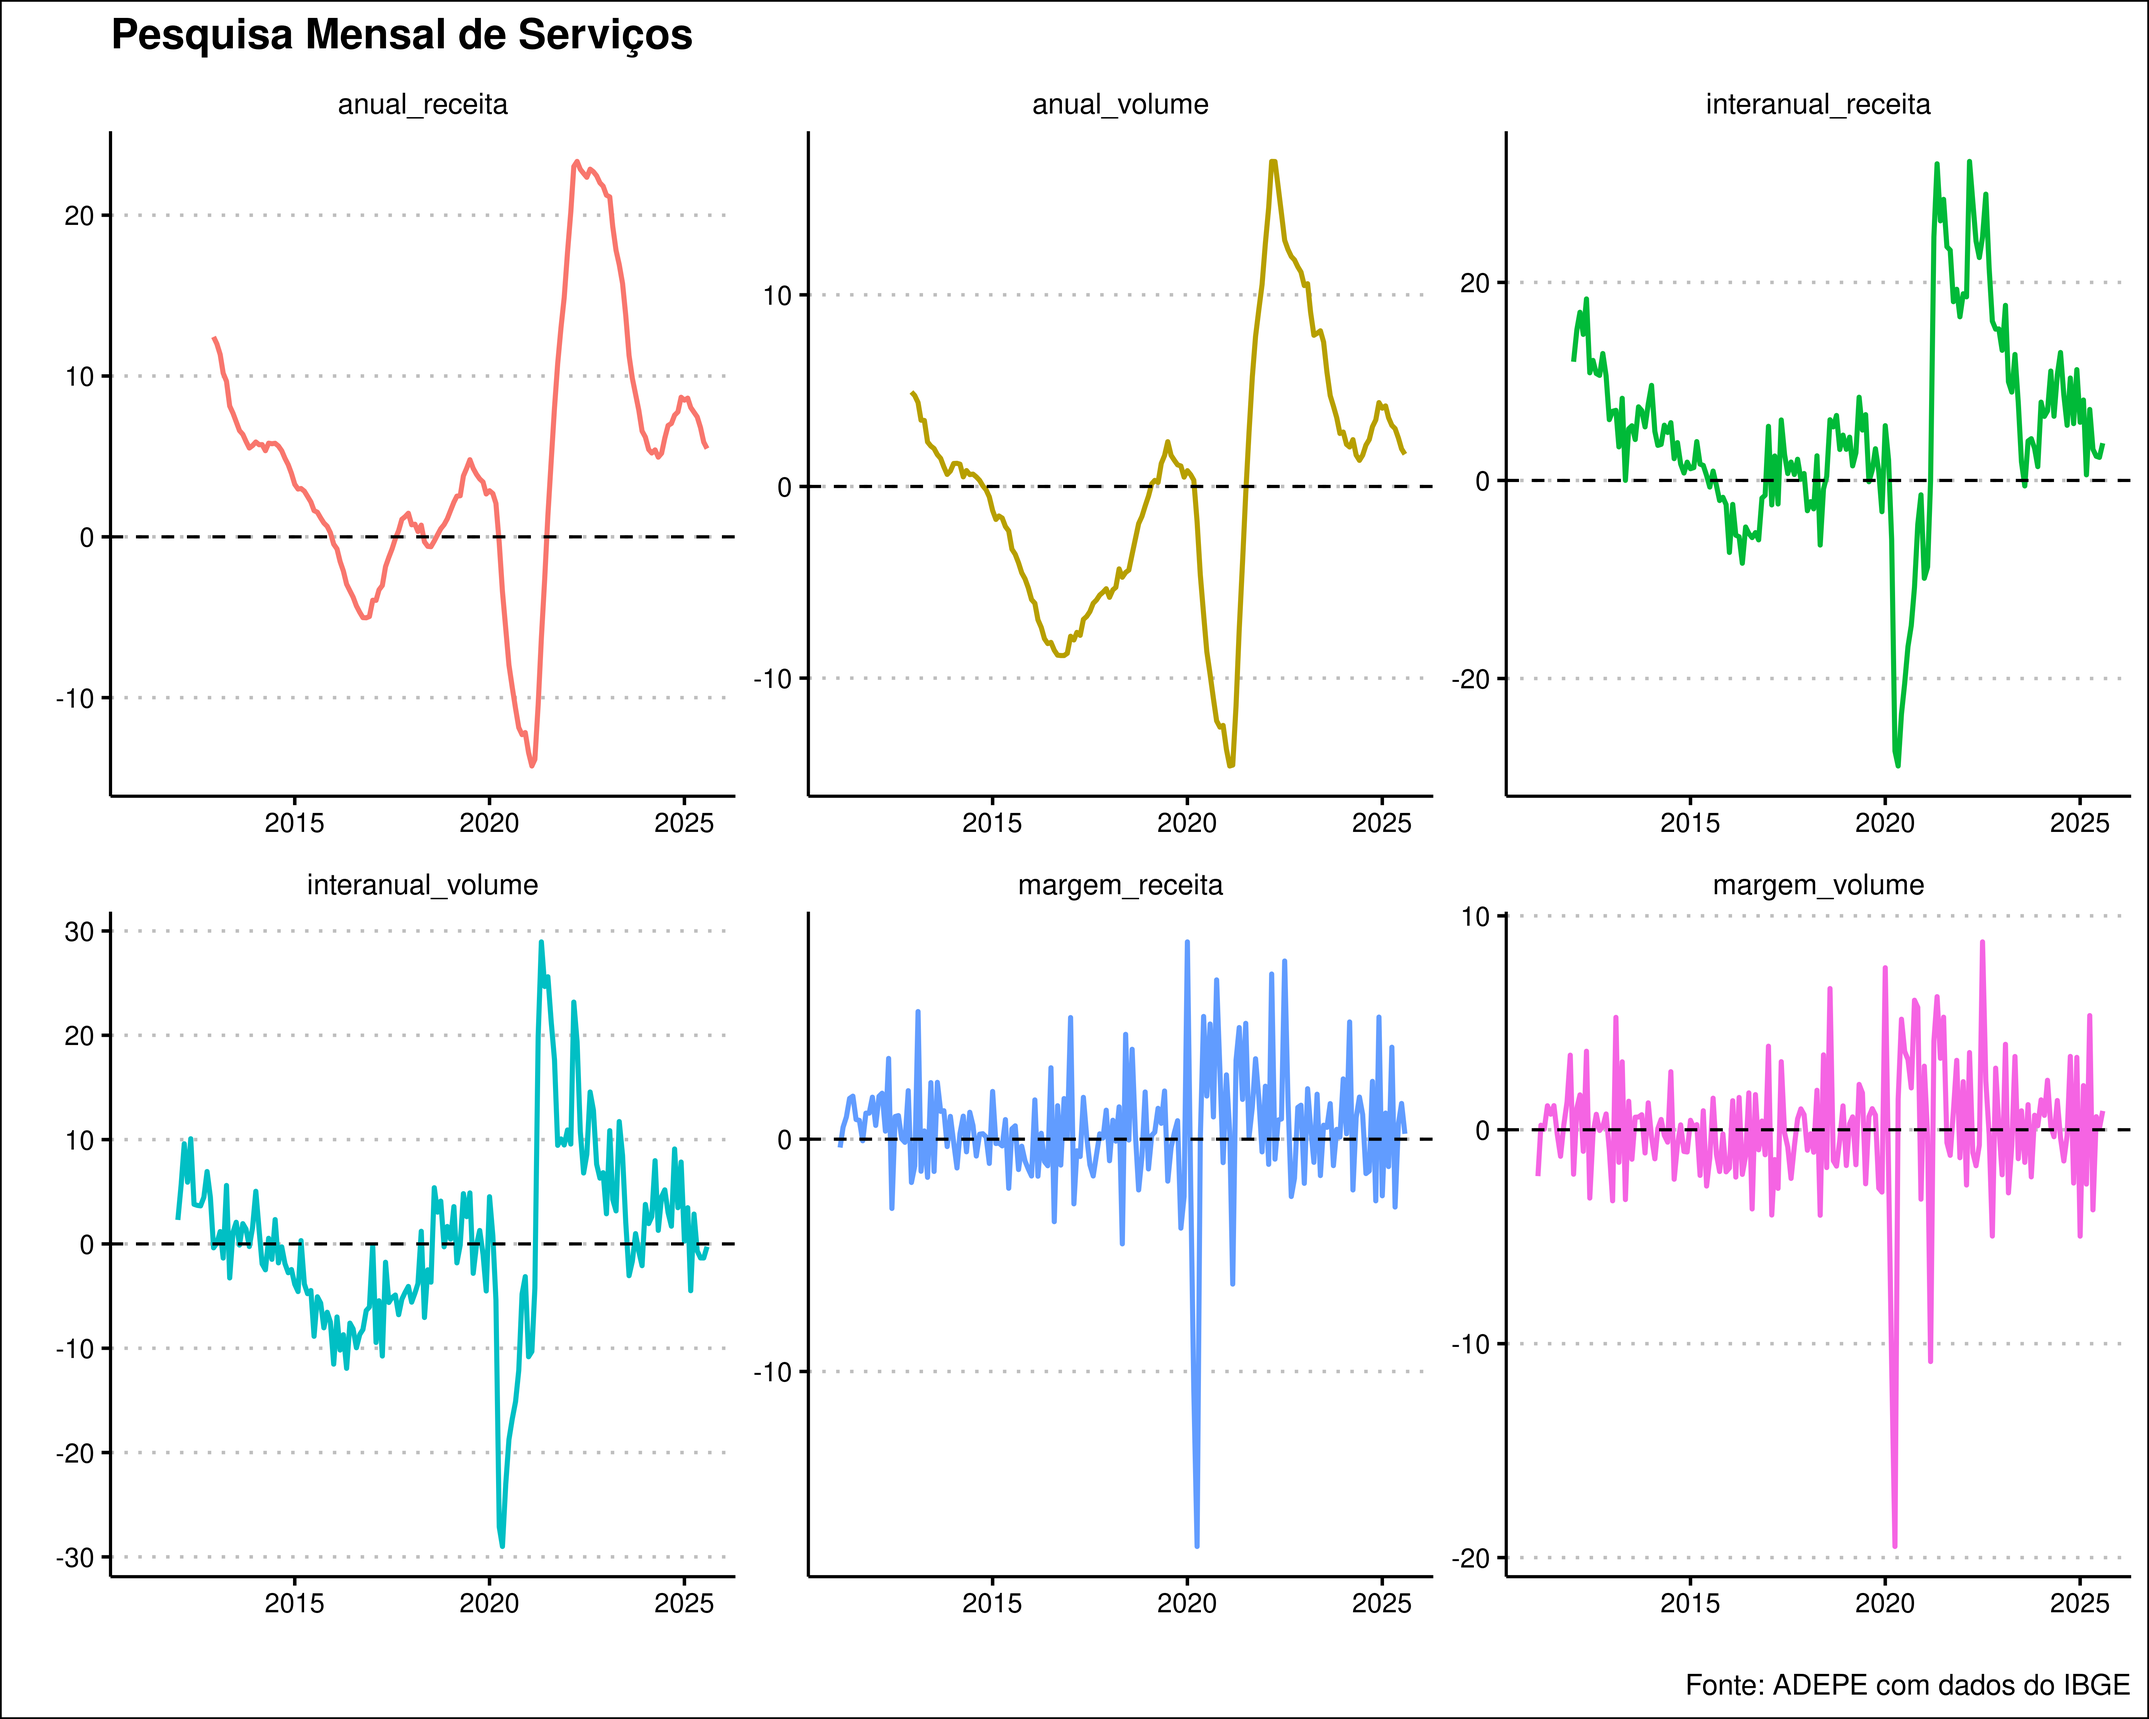
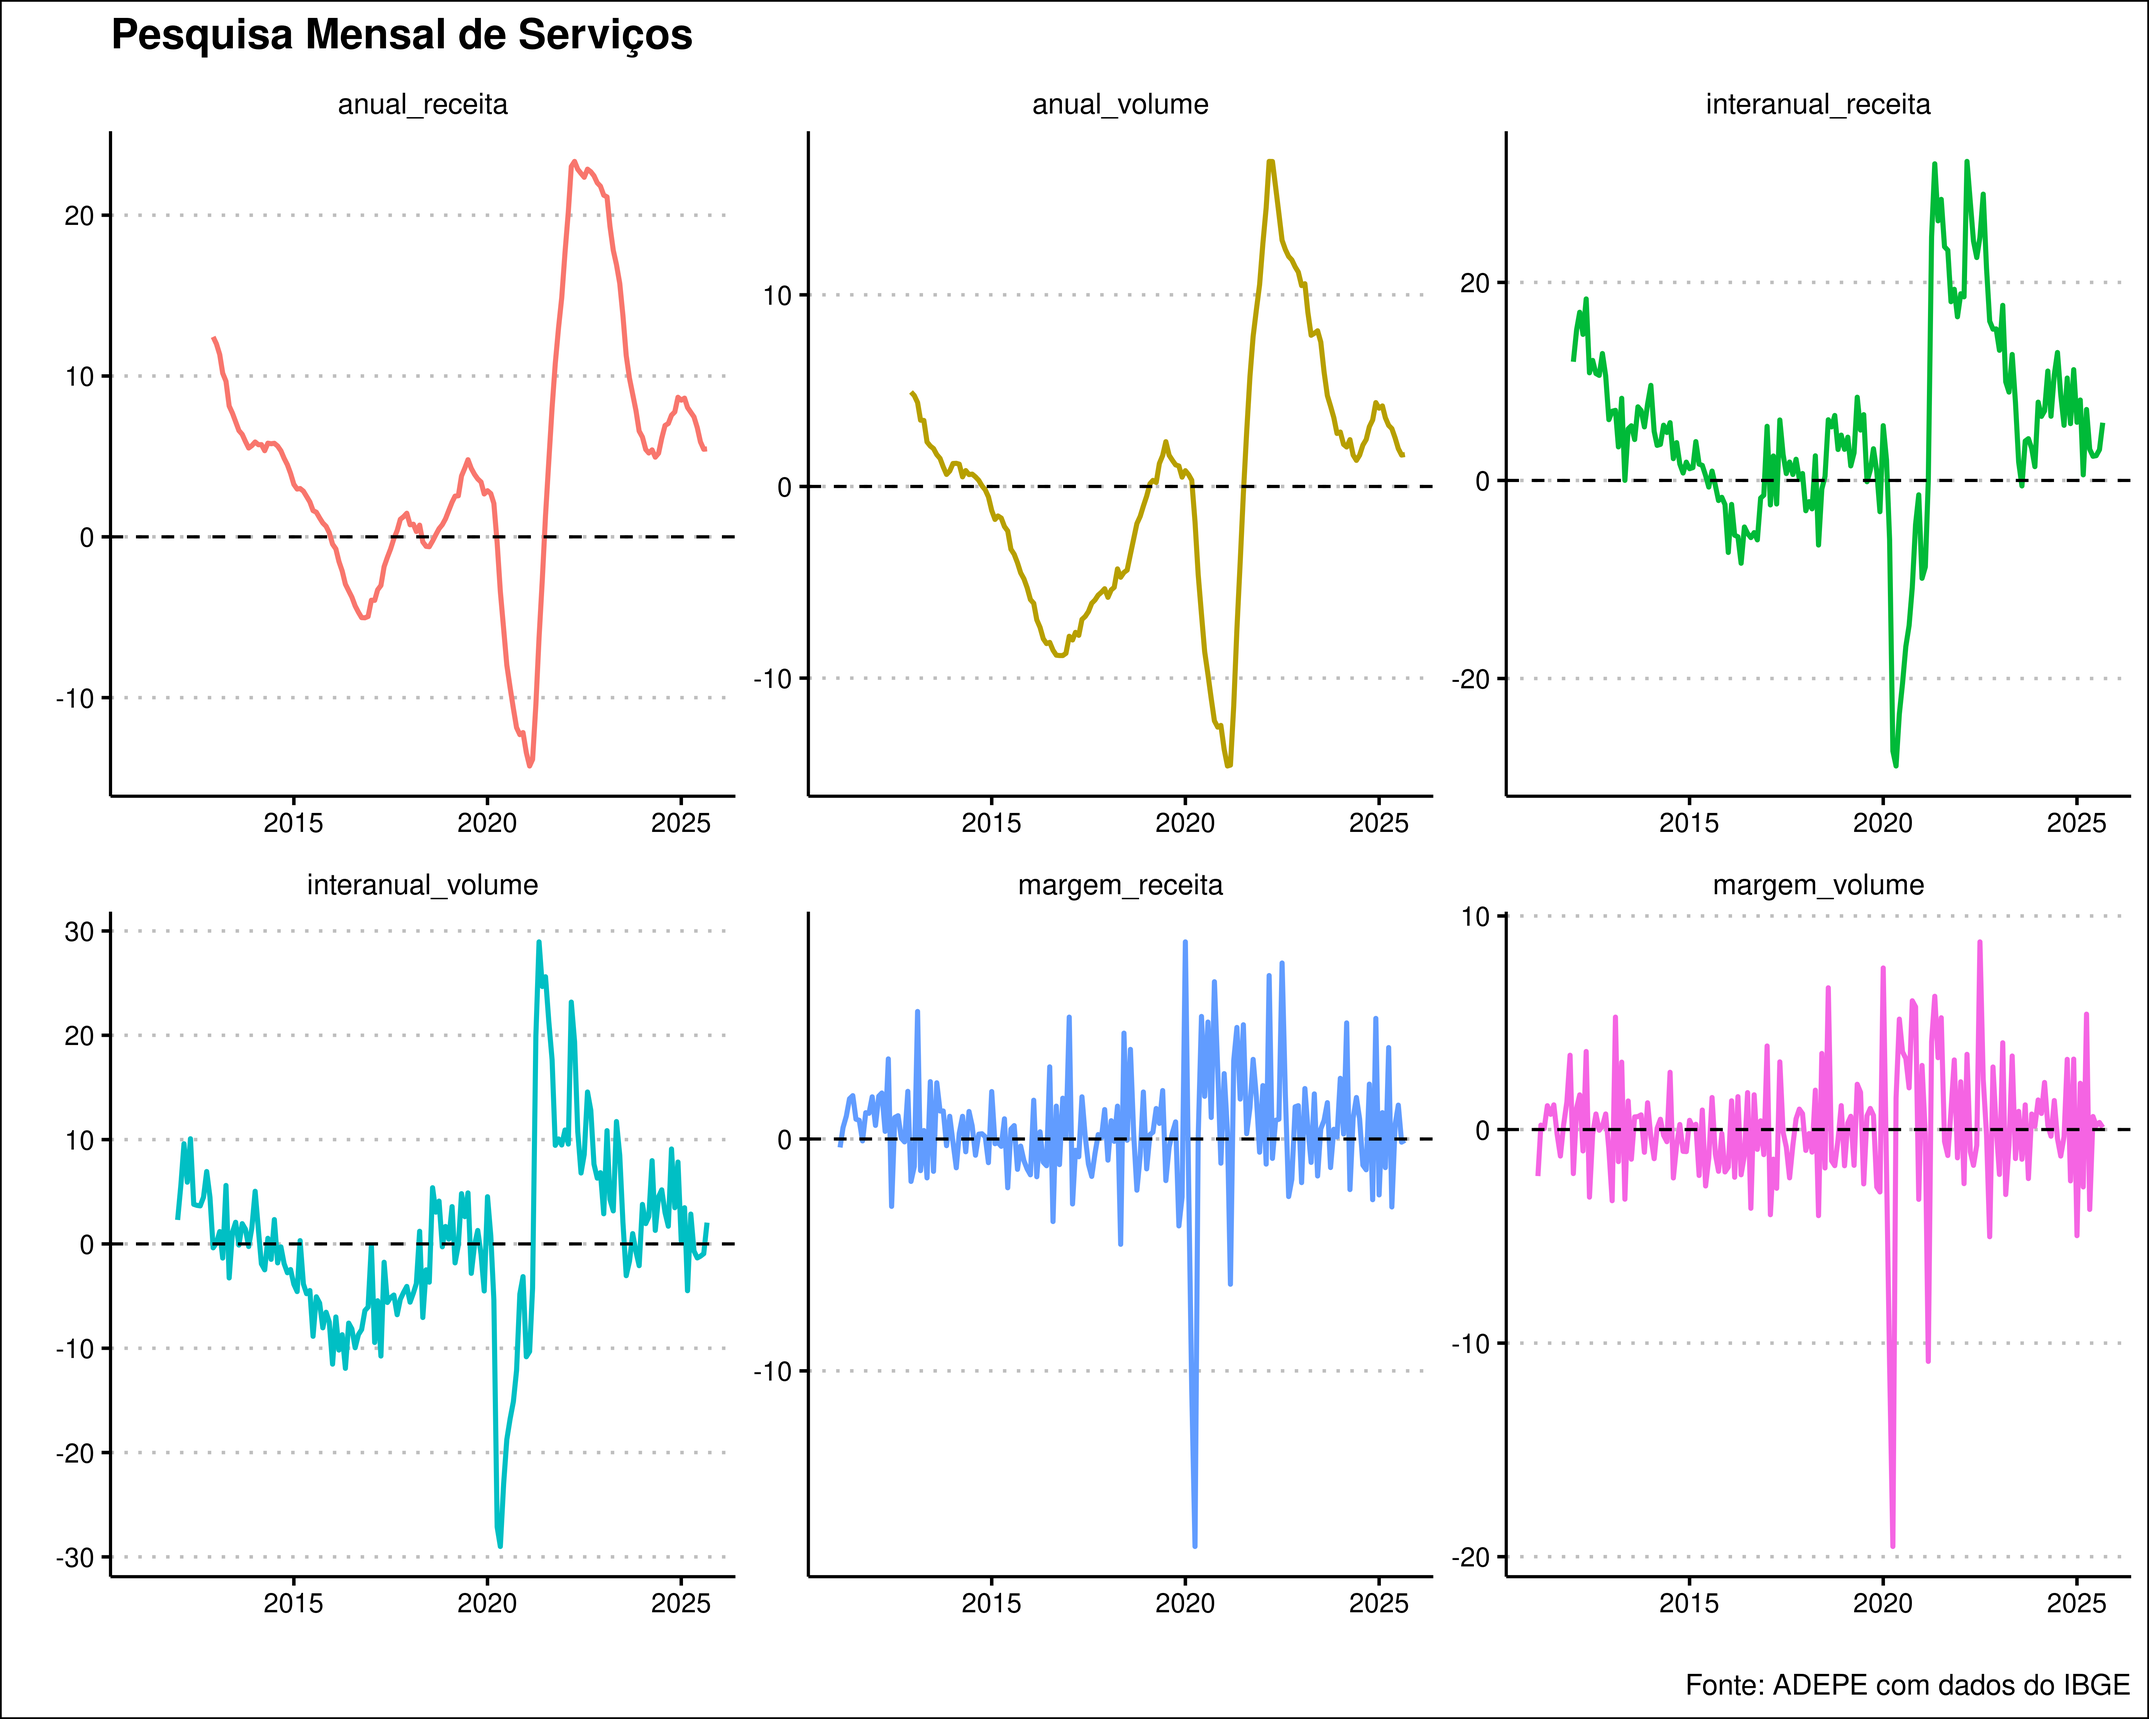
Atualização de relatório automatizada

diff --git a/pms/pms.html b/pms/pms.html
@@ -381,40 +381,40 @@ Núcleo de Dados <br><span style="font-size: 70%;">ADEPE<br><a href="https://git
 </thead>
 <tbody>
 <tr class="odd">
-<td style="text-align: left;">2025-03-01</td>
-<td style="text-align: right;">0.78</td>
-<td style="text-align: right;">7.43</td>
-<td style="text-align: right;">7.73</td>
-</tr>
-<tr class="even">
 <td style="text-align: left;">2025-04-01</td>
 <td style="text-align: right;">0.11</td>
-<td style="text-align: right;">7.15</td>
+<td style="text-align: right;">7.16</td>
 <td style="text-align: right;">7.55</td>
 </tr>
-<tr class="odd">
-<td style="text-align: left;">2025-05-01</td>
-<td style="text-align: right;">0.38</td>
-<td style="text-align: right;">9.33</td>
-<td style="text-align: right;">7.89</td>
-</tr>
 <tr class="even">
+<td style="text-align: left;">2025-05-01</td>
+<td style="text-align: right;">0.37</td>
+<td style="text-align: right;">9.34</td>
+<td style="text-align: right;">7.90</td>
+</tr>
+<tr class="odd">
 <td style="text-align: left;">2025-06-01</td>
-<td style="text-align: right;">0.53</td>
-<td style="text-align: right;">7.77</td>
+<td style="text-align: right;">0.49</td>
+<td style="text-align: right;">7.70</td>
 <td style="text-align: right;">7.96</td>
 </tr>
-<tr class="odd">
+<tr class="even">
 <td style="text-align: left;">2025-07-01</td>
 <td style="text-align: right;">0.55</td>
-<td style="text-align: right;">7.09</td>
+<td style="text-align: right;">7.02</td>
 <td style="text-align: right;">7.68</td>
 </tr>
-<tr class="even">
+<tr class="odd">
 <td style="text-align: left;">2025-08-01</td>
-<td style="text-align: right;">0.64</td>
+<td style="text-align: right;">0.70</td>
 <td style="text-align: right;">7.03</td>
-<td style="text-align: right;">7.63</td>
+<td style="text-align: right;">7.62</td>
+</tr>
+<tr class="even">
+<td style="text-align: left;">2025-09-01</td>
+<td style="text-align: right;">0.59</td>
+<td style="text-align: right;">8.39</td>
+<td style="text-align: right;">7.65</td>
 </tr>
 </tbody>
 </table>
@@ -436,40 +436,40 @@ Núcleo de Dados <br><span style="font-size: 70%;">ADEPE<br><a href="https://git
 </thead>
 <tbody>
 <tr class="odd">
-<td style="text-align: left;">2025-03-01</td>
-<td style="text-align: right;">0.35</td>
-<td style="text-align: right;">1.76</td>
-<td style="text-align: right;">3.09</td>
-</tr>
-<tr class="even">
 <td style="text-align: left;">2025-04-01</td>
-<td style="text-align: right;">0.37</td>
-<td style="text-align: right;">1.80</td>
+<td style="text-align: right;">0.41</td>
+<td style="text-align: right;">1.81</td>
 <td style="text-align: right;">2.75</td>
 </tr>
-<tr class="odd">
-<td style="text-align: left;">2025-05-01</td>
-<td style="text-align: right;">0.20</td>
-<td style="text-align: right;">3.92</td>
-<td style="text-align: right;">3.00</td>
-</tr>
 <tr class="even">
+<td style="text-align: left;">2025-05-01</td>
+<td style="text-align: right;">0.12</td>
+<td style="text-align: right;">3.92</td>
+<td style="text-align: right;">3.01</td>
+</tr>
+<tr class="odd">
 <td style="text-align: left;">2025-06-01</td>
 <td style="text-align: right;">0.48</td>
-<td style="text-align: right;">3.03</td>
+<td style="text-align: right;">2.98</td>
 <td style="text-align: right;">3.10</td>
 </tr>
-<tr class="odd">
+<tr class="even">
 <td style="text-align: left;">2025-07-01</td>
-<td style="text-align: right;">0.24</td>
-<td style="text-align: right;">2.85</td>
+<td style="text-align: right;">0.25</td>
+<td style="text-align: right;">2.80</td>
 <td style="text-align: right;">3.00</td>
 </tr>
-<tr class="even">
+<tr class="odd">
 <td style="text-align: left;">2025-08-01</td>
-<td style="text-align: right;">0.12</td>
-<td style="text-align: right;">2.48</td>
-<td style="text-align: right;">3.06</td>
+<td style="text-align: right;">0.19</td>
+<td style="text-align: right;">2.49</td>
+<td style="text-align: right;">3.05</td>
+</tr>
+<tr class="even">
+<td style="text-align: left;">2025-09-01</td>
+<td style="text-align: right;">0.60</td>
+<td style="text-align: right;">4.10</td>
+<td style="text-align: right;">3.08</td>
 </tr>
 </tbody>
 </table>
@@ -517,40 +517,40 @@ Núcleo de Dados <br><span style="font-size: 70%;">ADEPE<br><a href="https://git
 </thead>
 <tbody>
 <tr class="odd">
-<td style="text-align: left;">2025-03-01</td>
-<td style="text-align: right;">-1.18</td>
-<td style="text-align: right;">0.57</td>
-<td style="text-align: right;">8.05</td>
+<td style="text-align: left;">2025-04-01</td>
+<td style="text-align: right;">3.94</td>
+<td style="text-align: right;">7.17</td>
+<td style="text-align: right;">7.74</td>
 </tr>
 <tr class="even">
-<td style="text-align: left;">2025-04-01</td>
-<td style="text-align: right;">3.96</td>
-<td style="text-align: right;">7.17</td>
-<td style="text-align: right;">7.75</td>
-</tr>
-<tr class="odd">
 <td style="text-align: left;">2025-05-01</td>
-<td style="text-align: right;">-2.92</td>
+<td style="text-align: right;">-2.93</td>
 <td style="text-align: right;">3.15</td>
 <td style="text-align: right;">7.46</td>
 </tr>
-<tr class="even">
+<tr class="odd">
 <td style="text-align: left;">2025-06-01</td>
-<td style="text-align: right;">0.65</td>
+<td style="text-align: right;">0.62</td>
 <td style="text-align: right;">2.44</td>
 <td style="text-align: right;">6.79</td>
 </tr>
-<tr class="odd">
+<tr class="even">
 <td style="text-align: left;">2025-07-01</td>
-<td style="text-align: right;">1.54</td>
-<td style="text-align: right;">2.33</td>
-<td style="text-align: right;">5.89</td>
+<td style="text-align: right;">1.46</td>
+<td style="text-align: right;">2.50</td>
+<td style="text-align: right;">5.91</td>
+</tr>
+<tr class="odd">
+<td style="text-align: left;">2025-08-01</td>
+<td style="text-align: right;">-0.14</td>
+<td style="text-align: right;">3.11</td>
+<td style="text-align: right;">5.45</td>
 </tr>
 <tr class="even">
-<td style="text-align: left;">2025-08-01</td>
-<td style="text-align: right;">0.23</td>
-<td style="text-align: right;">3.76</td>
-<td style="text-align: right;">5.49</td>
+<td style="text-align: left;">2025-09-01</td>
+<td style="text-align: right;">-0.05</td>
+<td style="text-align: right;">5.83</td>
+<td style="text-align: right;">5.47</td>
 </tr>
 </tbody>
 </table>
@@ -572,40 +572,40 @@ Núcleo de Dados <br><span style="font-size: 70%;">ADEPE<br><a href="https://git
 </thead>
 <tbody>
 <tr class="odd">
-<td style="text-align: left;">2025-03-01</td>
-<td style="text-align: right;">-2.54</td>
-<td style="text-align: right;">-4.48</td>
-<td style="text-align: right;">3.59</td>
-</tr>
-<tr class="even">
 <td style="text-align: left;">2025-04-01</td>
-<td style="text-align: right;">5.34</td>
+<td style="text-align: right;">5.40</td>
 <td style="text-align: right;">2.86</td>
 <td style="text-align: right;">3.19</td>
 </tr>
-<tr class="odd">
+<tr class="even">
 <td style="text-align: left;">2025-05-01</td>
 <td style="text-align: right;">-3.74</td>
 <td style="text-align: right;">-0.67</td>
 <td style="text-align: right;">3.02</td>
 </tr>
-<tr class="even">
+<tr class="odd">
 <td style="text-align: left;">2025-06-01</td>
 <td style="text-align: right;">0.61</td>
 <td style="text-align: right;">-1.34</td>
 <td style="text-align: right;">2.53</td>
 </tr>
-<tr class="odd">
+<tr class="even">
 <td style="text-align: left;">2025-07-01</td>
-<td style="text-align: right;">0.07</td>
-<td style="text-align: right;">-1.35</td>
-<td style="text-align: right;">1.96</td>
+<td style="text-align: right;">0.18</td>
+<td style="text-align: right;">-1.18</td>
+<td style="text-align: right;">1.97</td>
+</tr>
+<tr class="odd">
+<td style="text-align: left;">2025-08-01</td>
+<td style="text-align: right;">0.33</td>
+<td style="text-align: right;">-0.93</td>
+<td style="text-align: right;">1.64</td>
 </tr>
 <tr class="even">
-<td style="text-align: left;">2025-08-01</td>
-<td style="text-align: right;">0.88</td>
-<td style="text-align: right;">-0.27</td>
-<td style="text-align: right;">1.68</td>
+<td style="text-align: left;">2025-09-01</td>
+<td style="text-align: right;">0.10</td>
+<td style="text-align: right;">2.04</td>
+<td style="text-align: right;">1.67</td>
 </tr>
 </tbody>
 </table>
